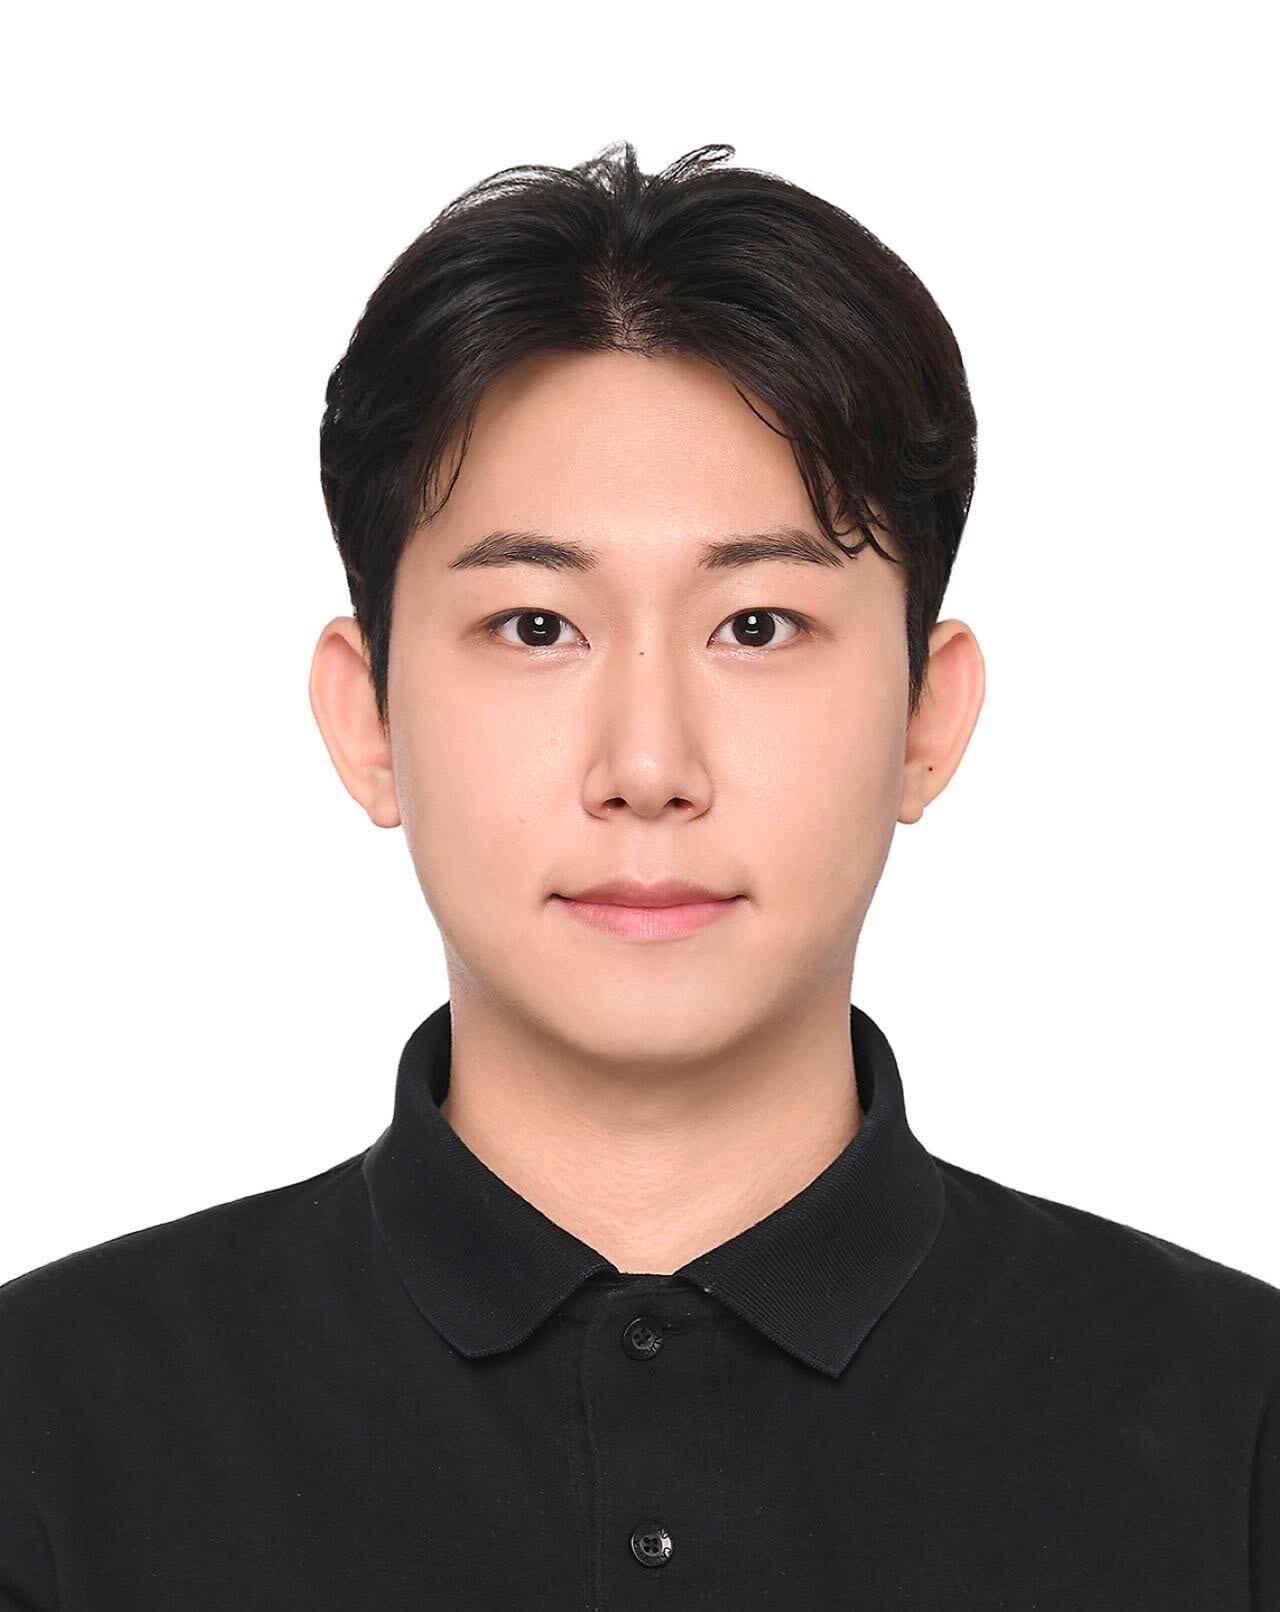
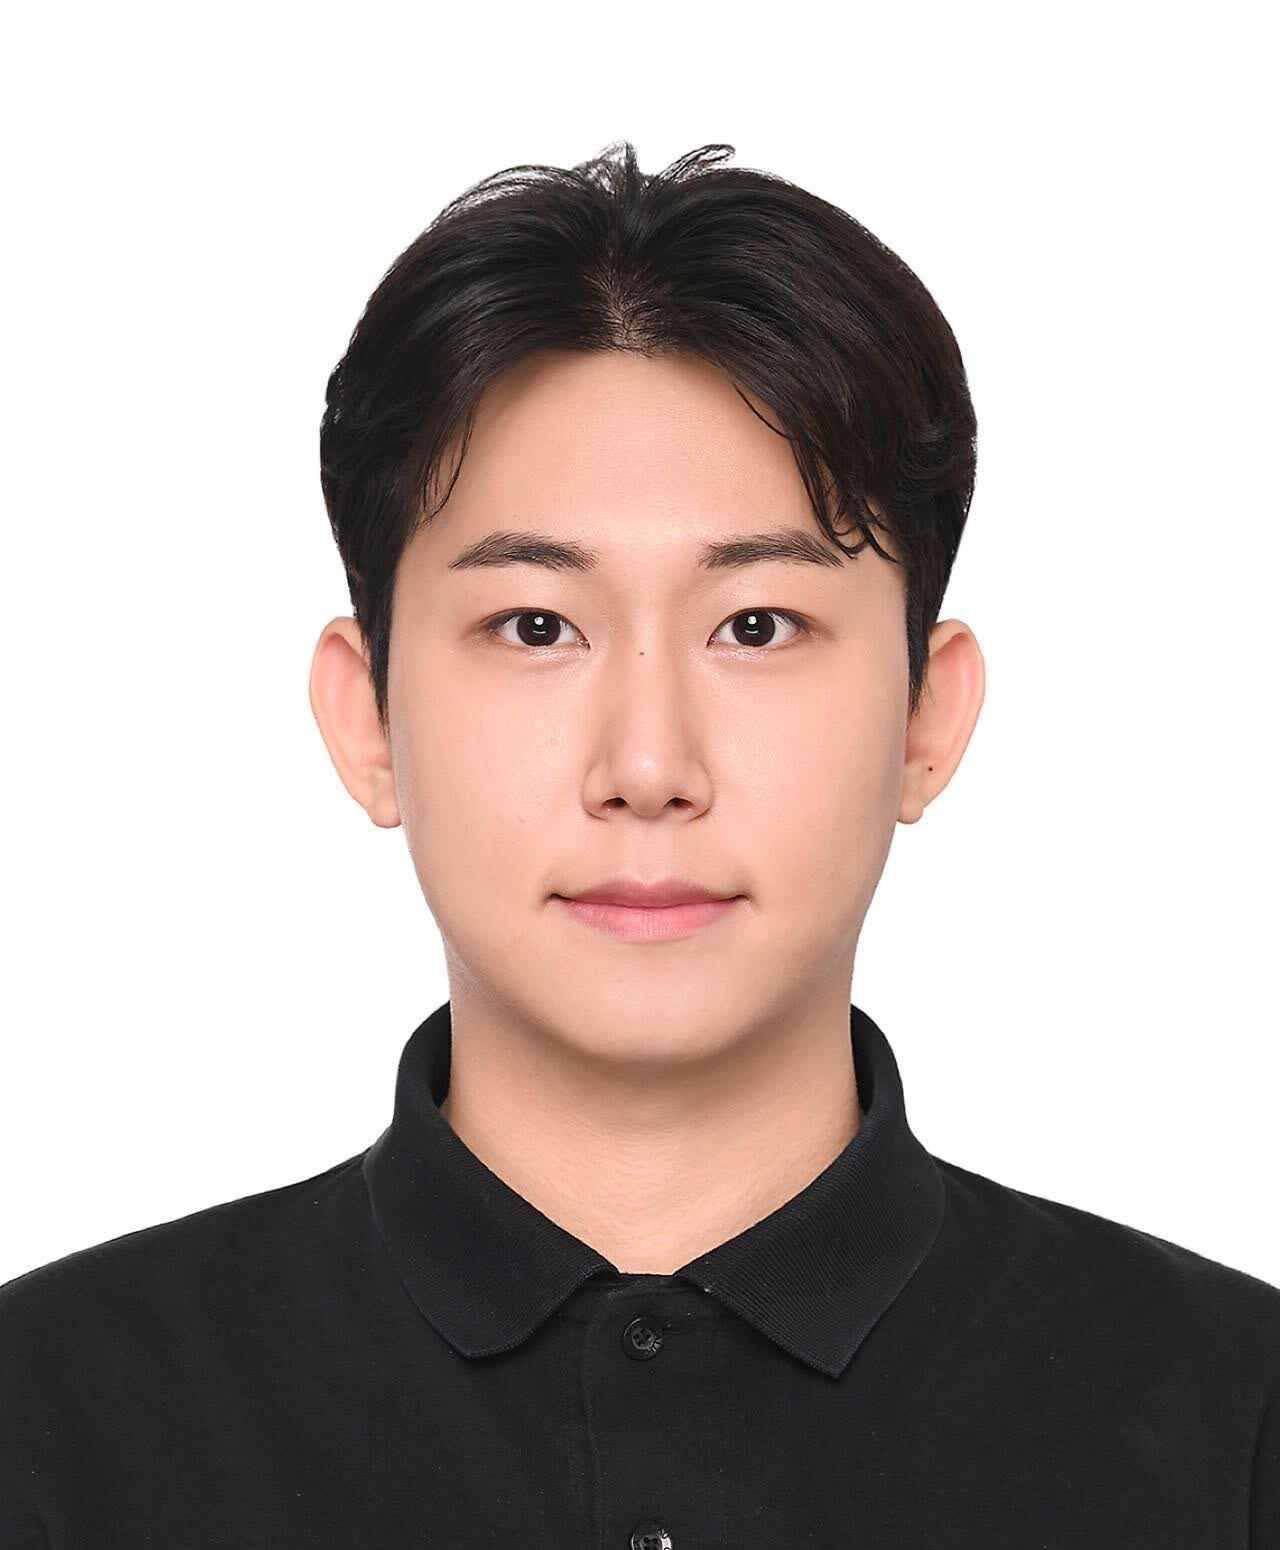
feat: update bio, news, profile photo, and real-time KST time
- Add "Hi there!" opener and remove "starting Fall 2026" from bio
- Add reach-out paragraph with live KST clock (KSTTime component)
- Add June 2026 military service (ADD) news item
- Show 4 news items before More news collapse
- Fix More news alignment, remove news descriptions, darken date text
- Update Last updated to June 18, 2026
- Recrop profile_5 to 13.5% bottom trim

diff --git a/src/app/page.tsx b/src/app/page.tsx
@@ -10,6 +10,7 @@ import {
 } from "lucide-react";
 
 import { Navbar } from "@/components/navbar";
+import { KSTTime } from "@/components/kst-time";
 import { MapMyVisitors } from "@/components/map-my-visitors";
 import { PublicationEntry } from "@/components/publication-entry";
 import { ExperienceEntry } from "@/components/experience-entry";
@@ -168,9 +169,16 @@ export default function Home() {
             {aboutMe.description && (
               <div className="pt-2">
                 <p
-                  className="font-serif text-[0.97rem] leading-relaxed text-stone-700 [&_a]:underline [&_a]:text-stone-800 [&_a:hover]:text-stone-500 mb-5"
+                  className="font-serif text-[0.97rem] leading-relaxed text-stone-700 [&_a]:underline [&_a]:text-stone-800 [&_a:hover]:text-stone-500 mb-3"
                   dangerouslySetInnerHTML={{ __html: aboutMe.description }}
                 />
+                <p className="font-serif text-[0.97rem] leading-relaxed text-stone-700 mb-5">
+                  Please feel free to reach out to me at{' '}
+                  <a href={`mailto:${aboutMe.email}`} className="underline text-stone-800 hover:text-stone-500">
+                    {aboutMe.email}
+                  </a>
+                  {' '}— it&apos;s <KSTTime /> for me right now.
+                </p>
                 {aboutMe.researchInterests && (
                   <details className="mb-4">
                     <summary className="cursor-pointer select-none font-serif text-sm text-stone-600 mb-1 tracking-wide font-bold">
@@ -201,8 +209,8 @@ export default function Home() {
               <h2 className="font-sans text-[1.65rem] font-bold text-[#2E2E2F] mb-8">
                 News
               </h2>
-              <div className="space-y-3">
-                {newsData.slice(0, 3).map((news, i) => (
+              <div className="space-y-2">
+                {newsData.slice(0, 4).map((news, i) => (
                   <div key={i} className="flex flex-col sm:flex-row gap-1 sm:gap-8">
                     <span className="text-[0.97rem] text-stone-500 whitespace-nowrap sm:w-24 flex-shrink-0 pt-px">
                       {news.date}
@@ -226,14 +234,14 @@ export default function Home() {
                     </div>
                   </div>
                 ))}
-                {newsData.length > 3 && (
+                {newsData.length > 4 && (
                   <details className="group">
                     <summary className="[&::-webkit-details-marker]:hidden list-none cursor-pointer select-none text-[0.97rem] font-bold text-stone-500 hover:text-stone-700 transition-colors">
-                      <span className="group-open:hidden">▸ More news</span>
-                      <span className="hidden group-open:inline">▾ More news</span>
+                      <span className="group-open:hidden">More news ▸</span>
+                      <span className="hidden group-open:inline">More news ▾</span>
                     </summary>
-                    <div className="space-y-3 mt-3">
-                      {newsData.slice(3).map((news, i) => (
+                    <div className="space-y-2 mt-2">
+                      {newsData.slice(4).map((news, i) => (
                         <div key={i} className="flex flex-col sm:flex-row gap-1 sm:gap-8">
                           <span className="text-[0.97rem] text-stone-500 whitespace-nowrap sm:w-24 flex-shrink-0 pt-px">
                             {news.date}

diff --git a/src/data/news.ts b/src/data/news.ts
@@ -9,23 +9,28 @@ export interface News {
 export const newsData: News[] = [
   {
     date: "August 2026",
-    title: "Joining Ph.D. Program at University of Michigan",
-    description: "Advised by Prof. Stella Yu.",
+    title: "Starting Ph.D. at University of Michigan, advised by Prof. Stella Yu",
+    description: "",
+  },
+  {
+    date: "June 2026",
+    title: "Completed three-year mandatory military service at the Agency for Defense Development (ADD)",
+    description: "",
   },
   {
     date: "May 2026",
     title: "Selected as Gold Reviewer at ICML 2026",
-    description: "See you in Seoul!",
+    description: "",
   },
   {
     date: "May 2026",
-    title: "Google Scholar citations reached 100 for the first time",
+    title: "Google Scholar citations reached 100",
     description: "",
   },
   {
     date: "March 2026",
     title: "CroBo accepted to CVPR 2026 Workshop on Pixel-level Video Understanding in the Wild",
     titleHtml: "<a href='https://seokminlee-chris.github.io/CroBo-ProjectPage/' target='_blank' rel='noopener noreferrer' style='text-decoration: underline; color: inherit;'>CroBo</a> accepted to CVPR 2026 Workshop on Pixel-level Video Understanding in the Wild",
-    description: "My first publication as a corresponding author. Seokmin will be presenting at the venue.",
+    description: "",
   },
 ];

diff --git a/src/data/aboutme.ts b/src/data/aboutme.ts
@@ -61,8 +61,9 @@ export const aboutMe: AboutMe = {
     // in Computer Science and Engineering at <a href='https://www.postech.ac.kr/eng/'>POSTECH</a>.\
     // ",
     // from 26.01.17
-    "I am an incoming Ph.D. student in Computer Science and Engineering at the University of Michigan, \
-    advised by Prof. <a href='https://web.eecs.umich.edu/~stellayu/'>Stella Yu</a>, starting Fall 2026. \
+    "Hi there!<br />\
+    I am an incoming Ph.D. student in Computer Science and Engineering at the University of Michigan, \
+    advised by Prof. <a href='https://web.eecs.umich.edu/~stellayu/'>Stella Yu</a>. \
     Previously, I completed my bachelor's degree (<em>Summa Cum Laude</em>) \
     in Computer Science and Engineering at POSTECH. \
     ",
@@ -130,5 +131,5 @@ export const aboutMe: AboutMe = {
   // secretDescription: "I like dogs.",
   addressOffice:"Daejeon, Republic of Korea",
   addressURL:"https://maps.app.goo.gl/UDcczVBM8Kp2APpm8",
-  lastUpdated: "May 25, 2026",
+  lastUpdated: "June 18, 2026",
 };

diff --git a/src/components/news-entry.tsx b/src/components/news-entry.tsx
@@ -5,7 +5,7 @@ export function NewsEntry({ news }: { news: News }) {
   return (
     <div className="flex flex-row gap-6">
       <div className="flex flex-col flex-1">
-        <p className="text-xs text-zinc-500 mb-2">{news.date}</p>
+        <p className="text-xs text-zinc-600 mb-2">{news.date}</p>
         <h3 className="font-serif text-md mb-3">
           {news.link ? (
             <a
@@ -26,7 +26,6 @@ export function NewsEntry({ news }: { news: News }) {
             news.title
           )}
         </h3>
-        <p className="text-sm text-zinc-600">{news.description}</p>
       </div>
     </div>
   );

diff --git a/src/components/kst-time.tsx b/src/components/kst-time.tsx
@@ -1,0 +1,23 @@
+'use client';
+import { useEffect, useState } from 'react';
+
+export function KSTTime() {
+  const [time, setTime] = useState('');
+
+  useEffect(() => {
+    const update = () => {
+      setTime(new Date().toLocaleTimeString('en-US', {
+        timeZone: 'Asia/Seoul',
+        hour: 'numeric',
+        minute: '2-digit',
+        hour12: true,
+      }));
+    };
+    update();
+    const id = setInterval(update, 60000);
+    return () => clearInterval(id);
+  }, []);
+
+  if (!time) return null;
+  return <span>{time}</span>;
+}
